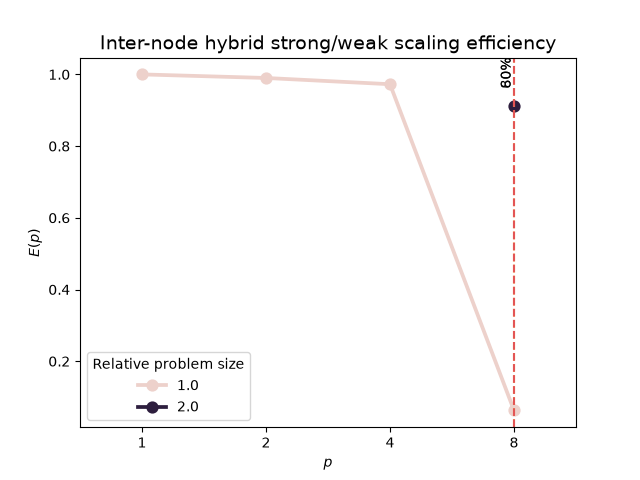
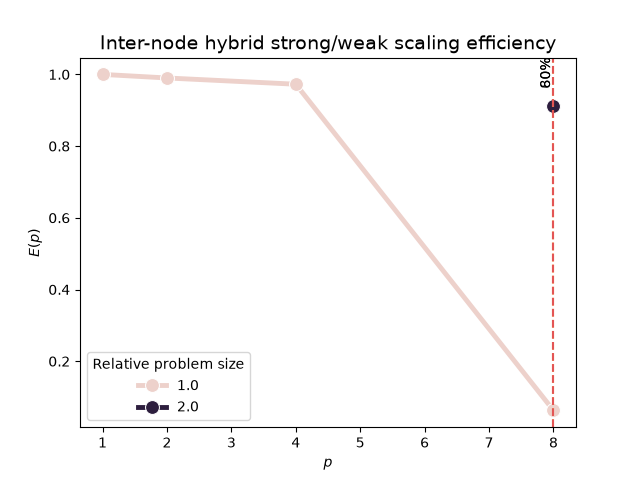
adding initial inter-node data and reasoning

diff --git a/high-level-report.md b/high-level-report.md
@@ -151,61 +151,47 @@ Based on the classification of the metrics and observations from the parallel ef
 
 ## 4. Inter-node assessment
 
-> [!IMPORTANT]
-> Include a brief description of the inter-node rubric. Provide more details on the programming model used for this code
-and assessment. Describe the initial problem size, and how it is scaled when the efficiency drops below 60%.
-
 The inter-node performance is measured using a combination of strong and weak scaling analyses. For a given problem
 size, a strong scaling analysis is performed over increasing node counts, with the parallel efficiency computed with
 respect to the performance on a single node. When the efficiency drops below 60%, the problem size is increased relative
 to the initial size. The run is repeated with the new size for that node count, and the strong scaling analysis is
 continued over the remaining node counts. The step is repeated every time the efficiency falls below 60%.
 
-> [!IMPORTANT]
-> Change the table headers and content according to the programming model used e.g. MPI only, OpenMP only, GPU + MPI
-etc. The "Relative problem size" entry is relative to the initial size used for 1 node i.e. the first entry will be 1,
-and if the problem size is doubled when the parallel efficiency drops below 60%, it will be 2, then 4 if doubled again
-later etc.
-
 | Nodes | Ranks | Threads per rank | Relative problem size | Time (s) | Parallel efficiency (%) |
 |-------|-------|------------------|-----------------------|----------|-------------------------|
-| 1     | 8     | 16               |                       |          |                         |
-| 2     | 16    | 16               |                       |          |                         |
-| 3     | 24    | 16               |                       |          |                         |
-| 4     | 32    | 16               |                       |          |                         |
-| 5     | 40    | 16               |                       |          |                         |
-| 6     | 48    | 16               |                       |          |                         |
-| 7     | 56    | 16               |                       |          |                         |
-| 8     | 64    | 16               |                       |          |                         |
+| 1     | 2     | 32               | 1.0                   | 134.592  | 1                       |
+| 2     | 4     | 32               | 1.0                   | 67.9727  | 0.990045                |
+| 4     | 8     | 32               | 1.0                   | 34.5952  | 0.97262                 |
+| 8     | 16    | 32               | 1.0                   | 267.626  | 0.0628638               |
+| 8     | 16    | 32               | 2.0                   | 36.8884  | 0.912157                |
 
 <img src='images/internode.png' width=500 alt="Internode performance"/>
 
-> [!IMPORTANT]
-> Highlight any observations made from the inter-node runtimes and graph. Compute the scores using the metrics generated
-with the `assessmenttemplate` package and the `high-level-plots.py` script and plug the values in the equation below.
-
-At `<N_example>` nodes, the parallel efficiency fell below 60% and so the problem size was doubled. The 80% threshold is
-at `<p_80>` cores and the 60% threshold is at `<p_60>` cores. As a proportion of the number of cores available on the
-node i.e. `<num_cores_per_node>`, the scores are:
+At 8 nodes, the parallel efficiency fell below 60% and so the problem size was
+doubled. The 80% are 60% threshold are both at 8 nodes (512 cores) as this is the maximum
+number of nodes on the DINE2 cluster. There is hence one jump
 
 $$
-C^{80\\\%}_{inter}=\frac{p^{80\\\%}_{critical,inter}}{p_{max,inter}}=\frac{\texttt{<p\\\_80>}}{\texttt{<num\\\_cores\\\_per\\\_node>}}=\texttt{c\\\_80}\\\%
+C_{\text{inter}}^{\text{80\%}} = | \{p \in \mathbb{C}_{\text{critical}}^{\text{60\%}}: \quad E(p, n) \geq 80\%\} | = 1.0
 $$
 
 and
 
 $$
-C^{60\\\%}_{inter}=\frac{p^{60\\\%}_{critical,inter}}{p_{max,inter}}=\frac{\texttt{<p\\\_60>}}{\texttt{<num\\\_cores\\\_per\\\_node>}}=\texttt{c\\\_60}\\\%
+C_{\text{inter}}^{\text{60\%}} = | \{p \in \mathbb{C}_{\text{critical}}^{\text{60\%}}: \quad 80\% \geq E(p, n) \geq 60\%\}| = 0.0
 $$
 
 | Efficiency                                                                                          | Description                                                                                                    | Score                                                                           |
 |-----------------------------------------------------------------------------------------------------|----------------------------------------------------------------------------------------------------------------|---------------------------------------------------------------------------------|
-| $C^{80\\\%}_{inter} \ge$ 0.8 $.C\_{inter}$ ^ $C^{80\\\%}\_{inter} + C^{60\\\%}\_{inter}=C\_{inter}$ | <span style="background-color: #0080005f">Distributed memory scaling does not require further analysis.</span> | $C^{80\\\%}\_{inter} \approx$ `<c_80>` & $C^{60\\\%}\_{inter} \approx$ `<c_60>` |
+| $C^{80\\\%}_{inter} \ge$ 0.8 $.C\_{inter}$ ^ $C^{80\\\%}\_{inter} + C^{60\\\%}\_{inter}=C\_{inter}$ | <span style="background-color: #0080005f">Distributed memory scaling does not require further analysis.</span> | $C^{80\\\%}\_{inter} \approx$ 1.0 & $C^{60\\\%}\_{inter} \approx$ 0.0           |
 | $C^{60\\\%}\_{inter} \ge$ 0.6 $.C\_{inter}$                                                         | <span style="background-color: #ffff005c">Distributed memory scaling may require further analysis.</span>      |                                                                                 |
 | otherwise                                                                                           | <span style="background-color: #ff00004e">Distributed memory scaling requires in-depth analysis.</span>        |                                                                                 |
 
-> [!IMPORTANT]
-> Place the inter-node score in the correct range. Contextualise and elaborate on the classification of the score.
+We note, however, a change in the output for the 8 node run at relative problem
+size. We suspect this is that there is some change in the runtime potentially
+as the data for each node becomes too diffuse, though we cannot verify this.
+Although, this is may be the cause for the dramatic increase in runtime.
+Overall, the inter-node scaling looks very good.
 
 ## 5. GPU-performance assessment
 
@@ -286,9 +272,9 @@ them.
 
 | Result                                       | Score          | Metric result |
 |----------------------------------------------|----------------|---------------|
-| [Core](#2-core-level-assessment)             | `<core_score>` | MFLOPS        |
-| [Intra-node (80%)](#3-intra-node-assessment) | `<c_80>`       | core(s)       |
-| [Inter-node (80%)](#4-inter-node-assessment) | `<c_80>`       | node(s)       |
+| [Core](#2-core-level-assessment)             | 0.32           | MFLOPS        |
+| [Intra-node (80%)](#3-intra-node-assessment) | 0.015625       | core(s)       |
+| [Inter-node (80%)](#4-inter-node-assessment) | 1.0            | node(s)       |
 | [GPU](#5-gpu-performance-assessment)         | `<gpu_score>`  | MFLOPS        |
 
 > [!IMPORTANT]
